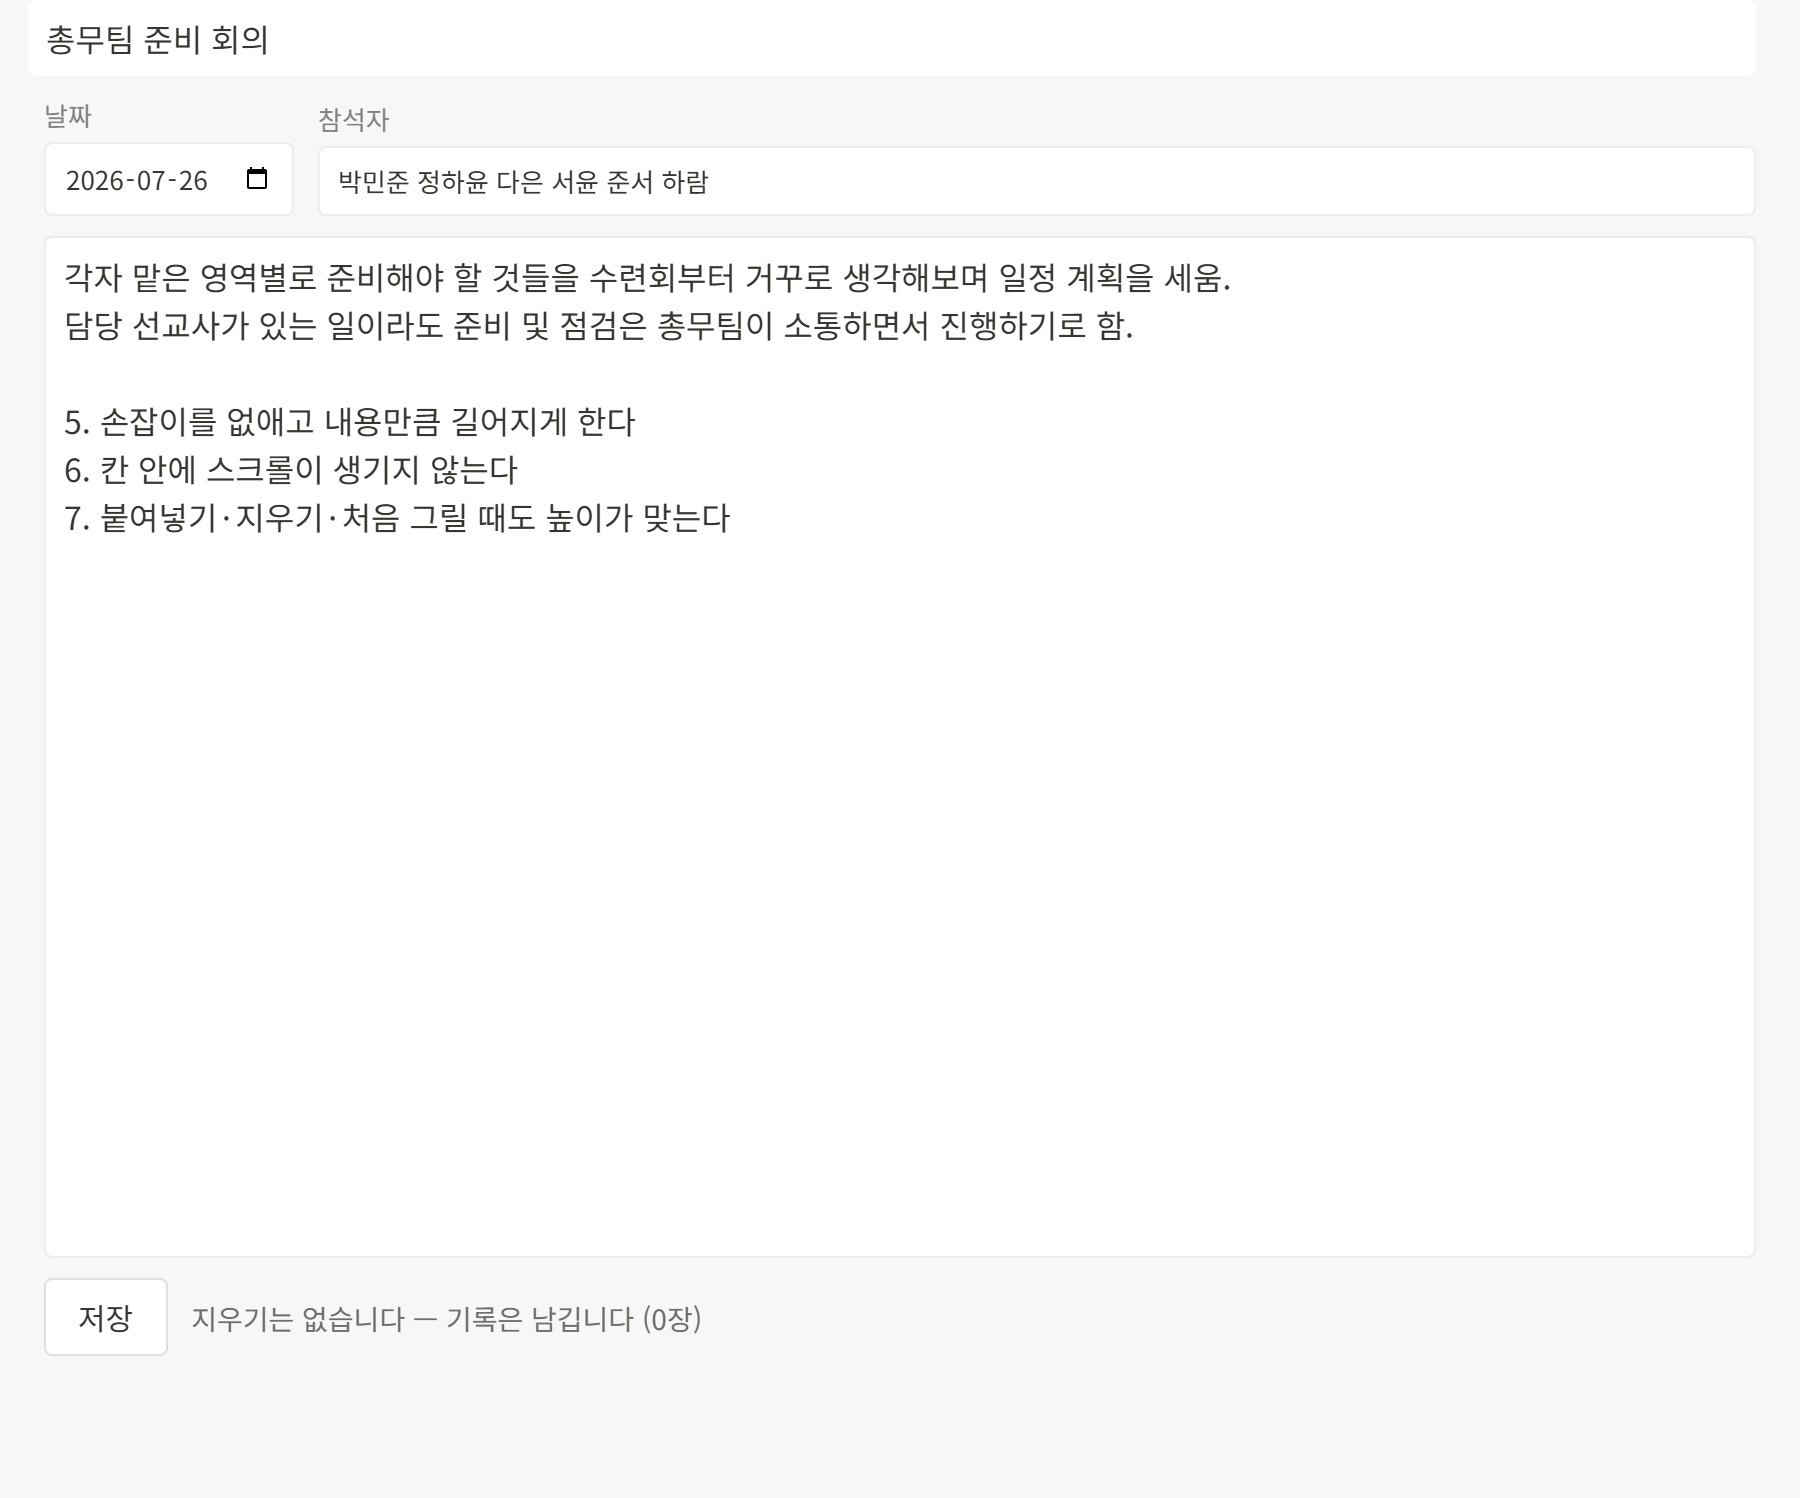
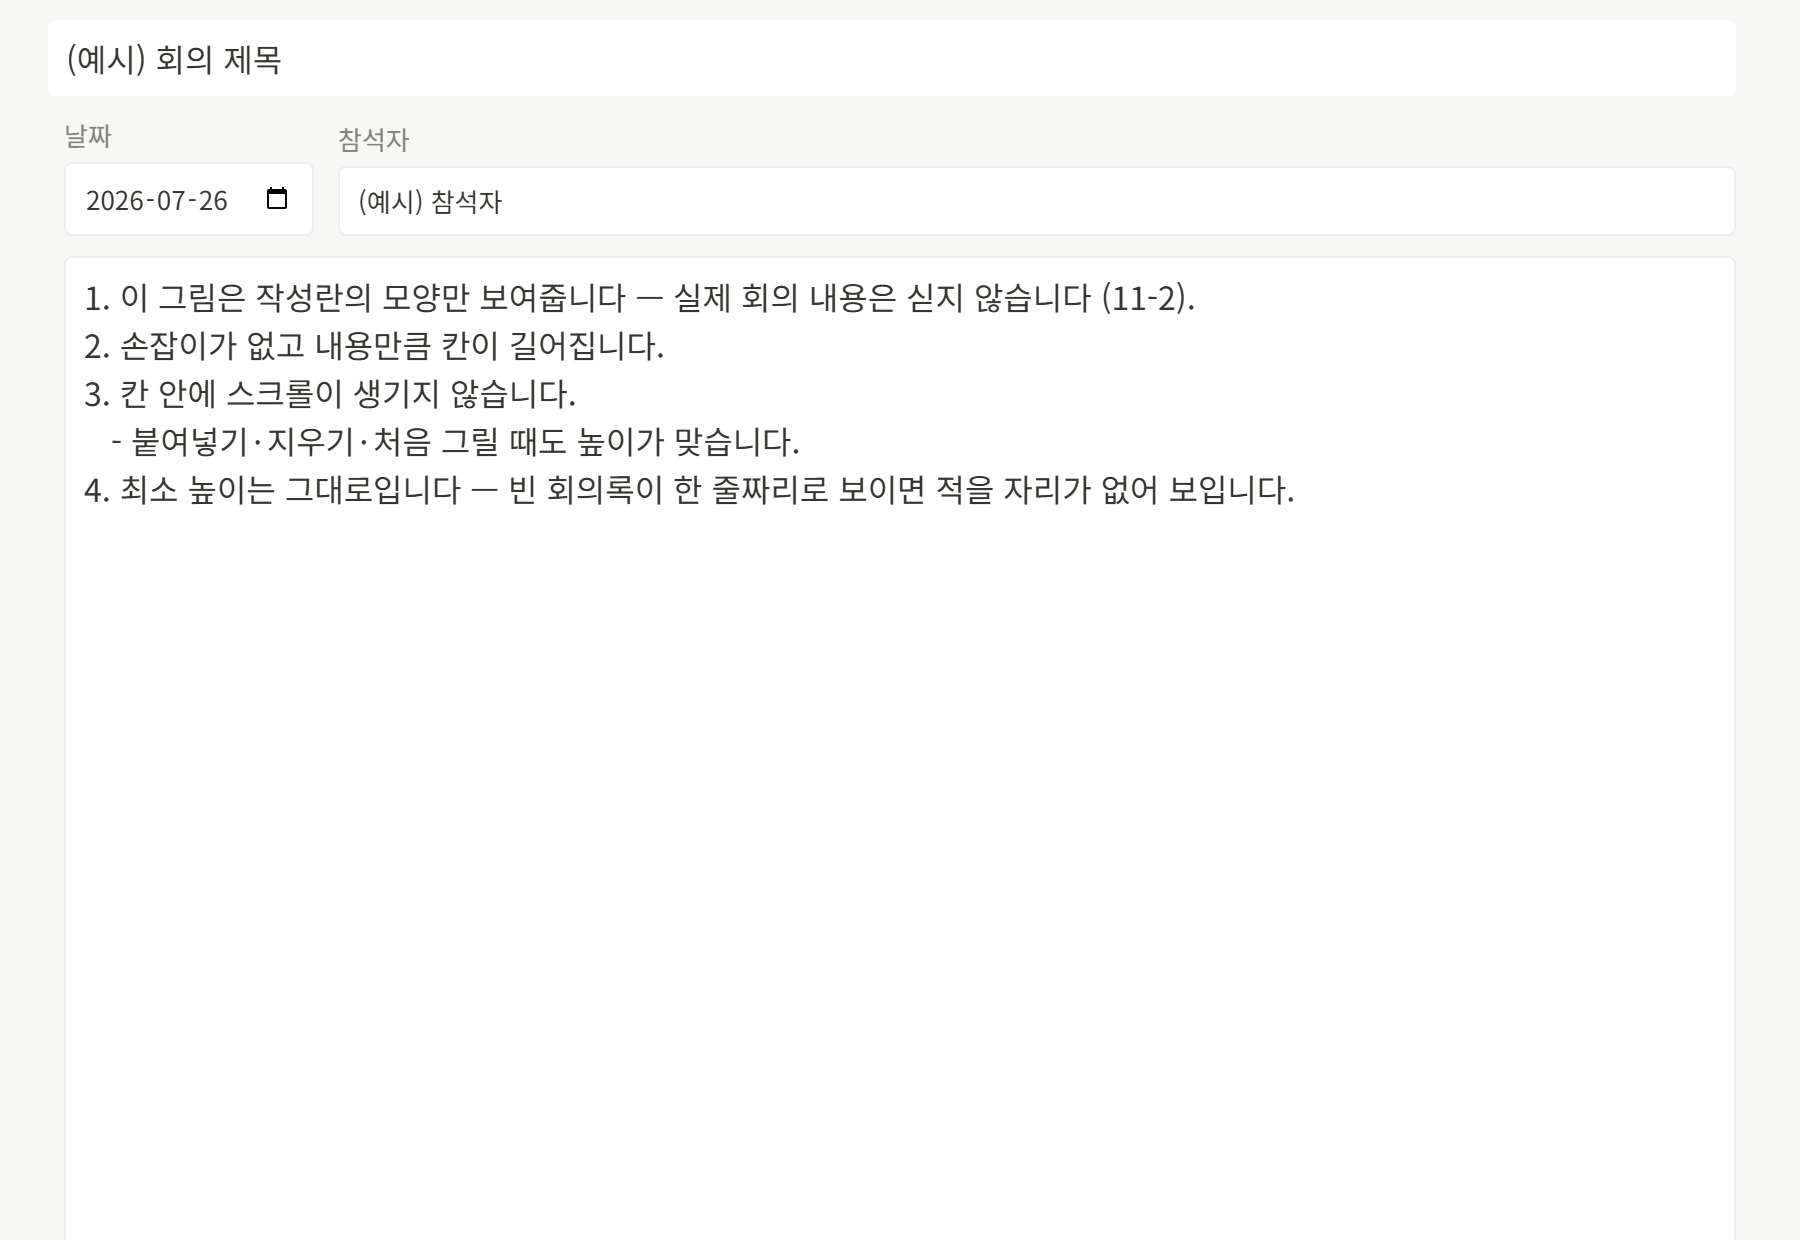
문서 — 하한 셋 · 상태 메뉴 · 이미지에도 본문 규칙 · 봐둘것 정리
4-0 의 하한이 셋(14/13/12)이 됐다. 정렬 토글을 낮추려다 어느 하한에도
안 맞는 자리를 만났고, 12px 예외를 파는 대신 급을 하나 두었다 — 예외는
다음 예외의 근거가 된다. 4-14 에 상태 칸의 메뉴와 「못 바꾸는 사람에게는
아무 일도 안 한다」, 11-2 에 「이 규칙은 이미지에도 걸린다」 와 게이트가
실명만 본다는 한계, 11-3 의 A-18 을 도구로, 그리고 봐둘것을 매 판 여는
한 줄. 12장에는 뺀 업무를 안 세는 대가(라이브러리가 둘이 되어 이력이
갈린다)를 적었다.

회의록 스크린샷은 본문·제목·참석자를 예시로 바꿔 다시 찍었다 — 찍은
화면에도 본문 규칙이 걸린다. 상태 메뉴 그림은 캡처가 fixed 를 잃어
자리가 틀렸던 것을 실제 좌표로 옮겨 다시 담았다(검토가 짚었다).

봐둘것 — AD-a·AD-b·AD-d·AE-c 처리함, AC-c 는 라벨과 본문이 다른 것을
가리키고 있어 갈랐다(AC-c2), 이 판의 것은 AE-a~AE-f.

diff --git a/docs/봐둘것.md b/docs/봐둘것.md
@@ -1104,11 +1104,23 @@ String(200) 이라 실해 없음)
 고쳐야 합니다 — 이번 판의 주제(한 곳으로)와 같은 종류라, 헬퍼 하나로
 모으는 것이 다음 판 후보입니다.
 
+> **AC-c 의 라벨이 어긋나 있었습니다.** 「개수를 글로 박은 것」 은
+> 2026-09-08 판에서 닫혔는데(아래 AC-c2), 이 항목의 본문은 처음부터
+> **test12_g01 의 허용 단위** 이야기였습니다. 둘을 갈라 적습니다 —
+> 라벨과 본문이 다른 것을 가리키면 다음 사람이 닫힌 줄 알고 넘어갑니다.
+
 ## AC-c · test12_g01 의 허용 단위가 (파일, 이름) 쌍입니다
 
 `routers/board.py` 에 TaskRun 허용(add_existing)이 있으므로 그 파일
 안에 **두 번째** TaskRun 생성이 생겨도 못 잡습니다. 함수 단위까지
 좁힐지는 비용 대비 판단.
+
+## ~~AC-c2 · 개수를 글로 박은 곳(「셋」)~~ — **처리함 (화면 손보기 판 · 옛말 판)**
+
+> `tasks.py` 머리와 14장에서 걷고, 12장의 「셋 다」 도 「어느 길이든」
+> 으로 바꿨다. 지키는 시험은 낱말 둘이 아니라 **「센 말 × 주제」** 로
+> 본다(test13_c01) — c02 가 그 검사가 실제로 보는지 잰다.
+> `suggest.py` 독스트링과 14장의 「세 곳」 도 사실로 고쳤다(다섯이었다).
 
 ## ~~AC-d · 부서 없는 업무를 만드는 문이 길마다 다릅니다~~ — **처리함 (화면 손보기 판)**
 
@@ -1126,7 +1138,12 @@ String(200) 이라 실해 없음)
 2026-09-08 「화면 손보기」 판 검토에서 나왔습니다. **이 판에서 고치지
 않기로 한 것들입니다.**
 
-## AD-a · 목록의 상태 배지가 유일한 죽은 면입니다
+## ~~AD-a · 목록의 상태 배지가 유일한 죽은 면입니다~~ — **처리함 (옛말 판)**
+
+> 상태 칸을 누르면 **드로어의 그 상태 메뉴**가 그 자리에 뜬다(4-14) —
+> 새 메뉴를 만들지 않았다. 배지 안쪽과 칸의 가장자리가 같은 자리이고,
+> 바꿀 수 없는 사람에게는 누를 것처럼 보이지 않는다(`pick` 없음).
+> 시험 test14_b01~b05 · 점검의 목록 항목 둘. 아래는 그때 적어 둔 내용이다.
 
 행은 어디를 눌러도 열리는데 배지만 아무 일도 안 합니다 — 이 판이 든
 이유(「누를 것이 보이는데 아무 일도 안 일어나면 두 번 누르고 만다」)가
@@ -1138,7 +1155,14 @@ String(200) 이라 실해 없음)
 메뉴를 그 자리에서 띄운다. (c) 가 배지를 예외로 둔 이유와 가장
 맞지만 목록에 드롭다운을 하나 더 들이는 일이라 이 판보다 큽니다.
 
-## AD-b · 회의록 본문이 스크린샷으로 저장소에 실립니다
+## ~~AD-b · 회의록 본문이 스크린샷으로 저장소에 실립니다~~ — **처리함 (옛말 판)**
+
+> 11-2 의 「회의록·제안·논의의 줄을 옮겨 적지 않는다」 가 **이미지에도
+> 걸린다**고 적었다 — 화면을 찍었다고 규칙이 비켜 가지 않는다.
+> 이미지-확인.md 의 확인 항목이 둘이 됐고(실명 · 회의록 본문), 회의록
+> 스크린샷은 본문을 지우고 다시 찍었다. **게이트가 실명만(정확히는
+> 「사람이 봤다는 기록」 만) 본다는 한계도 함께 적었다.**
+> 아래는 그때 적어 둔 내용이다.
 
 11-2 는 「회의록·제안·논의의 줄을 주석·보고·시험에 옮겨 적지 않는다 —
 `회의 · #번호` 로 가리킨다」 고 정했는데, 그 규칙이 **이미지에도
@@ -1165,8 +1189,75 @@ String(200) 이라 실해 없음)
 JS 가 죽는 것은 이 앱에서 화면 전체가 이미 안 도는 상태라 무게를
 낮춰 두었습니다.
 
+## ~~AD-d · made_from_meeting 의 범위 둘~~ — **처리함 (옛말 판)**
+
+> `included=false` 는 **안 센다**(목록에 없는 것을 가리키면 링크가 갈
+> 곳이 없다), 항목 전환으로 만든 것은 **센다**(같은 회의록·같은 제목이면
+> 같은 업무다). 12장에 그대로 적었다. 시험 test14_m01·m02.
+
 ## AD-e · 옛 주소를 받는 길이 시험에는 있고 문서에는 한 줄뿐입니다
 
 `?scope=mine` → 드롭다운 값. 다음에 또 다른 옛 주소가 생기면(예:
 `?state=` 이름이 바뀌면) 같은 자리를 또 만들게 됩니다. 지금은 하나뿐이라
 그대로 둡니다.
+
+2026-09-08 「옛말 검사를 검사답게」 판에서 나왔습니다. **이 판에서 고치지
+않기로 한 것들입니다.**
+
+## AE-a · 12px 자리 스무 곳이 혼자 뜻을 질 수 있습니다
+
+0-c 로 53곳을 세어 갈랐더니, 아이콘·배지·개수·표 머리(33곳)는 옆이 뜻을
+지지만 **나머지 20곳은 갈립니다** — 눈에 띄는 것만 적으면
+`.menu .mi`(메뉴 항목) · `.log .editline`(「고치기」) ·
+`.prop .why`(근거 문장) · `.relcard .rh .n` · `.nitem .sender` ·
+`.dg-b .src` · `.eplaces .here` · `.item .scopeswap`.
+
+이번 판은 지시문이 이름한 하나(정렬 토글)만 13px 로 올렸습니다.
+**나머지는 각각 설계 판단**이고 한꺼번에 올리면 화면이 커지기만 합니다 —
+그 언저리를 손댈 때 그 자리만 함께 봅니다. 판단의 축은
+`tests/test_typescale.py` 의 `보조급자리` 에 적어 두었습니다.
+
+## AE-b · 옛말 목록은 사람이 채웁니다
+
+`docs/옛말.md` 에 적지 않은 말은 검사가 못 봅니다 — 도구가 낱말을
+고르는 자리는 없앴지만 **무엇을 적을지는 사람이 정합니다.**
+`check_names` 의 「대응표에 없는 이름」 과 같은 한계이고, 그쪽은
+「표 밖 담당자 N개」 로 말이라도 해 줍니다. 여기는 그런 자리가 없습니다.
+
+지금 새는 곳은 없습니다 — 11-3 이 「이번 판에서 바꾼 말이 있으면 적는다」
+를 마칠 때마다 읽는 자리에 두었습니다. 다음에 옛말이 또 새면 그때
+「바뀐 말을 자동으로 알아보는 길」 을 봅니다(커밋 메시지·문서 diff 등).
+
+## ~~AE-c · 상태 메뉴가 목록에서는 위치를 스스로 잡습니다~~ — **처리함 (같은 판, 검토 반영)**
+
+> 어림값(150)을 걷고 **실제 크기**(offsetWidth/Height)로 잡는다. 가로도
+> 함께 잡았다 — 목록의 상태 칸은 행 오른쪽 끝이라 좁은 창에서 넘쳤다.
+> **스크롤·창 크기 변화에는 닫는다**(`position:fixed` 라 메뉴만 남아
+> 안 보이는 행의 상태를 바꾸게 된다 — 드로어의 칩은 고정 패널 안이라
+> 없던 일이다).
+
+## AE-d · 드로어의 칩은 아직 stopPropagation 을 씁니다
+
+`drawer.js` 의 `#statchip` 은 `e.stopPropagation()` 으로 막고, 목록의
+상태 칸은 **막지 않고** originOf 가 알게 했습니다(그 판단이 두 곳이
+되지 않게). 같은 메뉴를 여는 두 자리의 규약이 갈린 채입니다 — 지금
+실해는 없습니다(capture 가 다음 클릭에 기록을 덮어씁니다). 드로어 쪽을
+같은 길로 옮길 때 함께 봅니다.
+
+## AE-e · 뺀 업무를 다시 만들면 라이브러리가 둘이 됩니다
+
+`made_from_meeting` 이 `included=false` 를 안 세면서, 뺐다가 제안을 다시
+누르면 **같은 제목의 TaskLibrary 가 하나 더** 생깁니다(`create_run` 은 늘
+새로 만듭니다). 6-2 의 자동 분류는 라이브러리 단위로 실행 이력을 세므로
+그 업무의 이력이 **두 줄로 갈립니다.**
+
+셋째 길이 있습니다 — 세되 「빼 둔 것이니 보드의 + 업무 추가로
+되살리세요」 로 안내하는 것. 그러려면 **목록에 없는 업무를 가리키는
+화면**이 필요해 이 판보다 큽니다. 12장에 그 대가를 적어 두었습니다.
+
+## AE-f · 낱말 시험을 세는 눈의 문턱이 낮습니다
+
+`test14_t02` 가 `>= 3` 인데 실제로 잡히는 것은 열입니다 — 일곱이
+사라져도 초록입니다. 그리고 탐지기는 시험 **본문에** `read_text` 와
+`.js` 가 직접 있어야 보므로, 헬퍼로만 읽는 시험이 새로 생기면 조용히
+빠집니다. 지금은 그런 시험이 없습니다.
